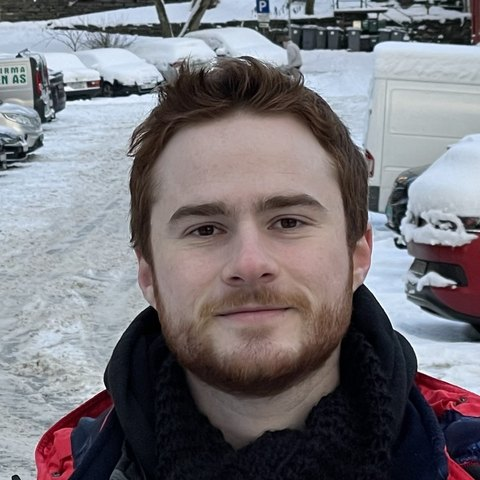
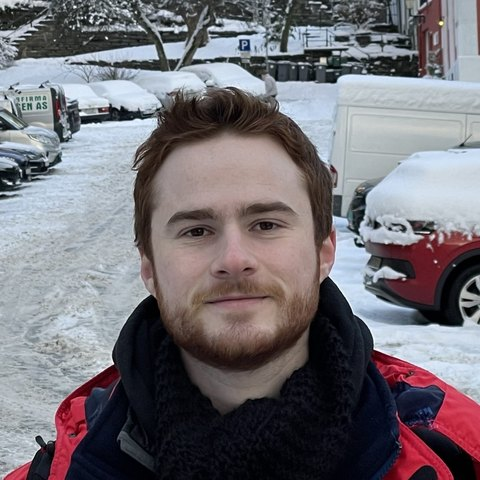
Set the invitation apart from the bio; widen photo crop

diff --git a/style.css b/style.css
@@ -161,6 +161,40 @@ header h1 {
   max-width: 40ch;
 }
 
+/* An invitation, set apart from the bio so it gets read. The cell echoes the
+   live ones in the background. */
+.bio p.invite {
+  display: flex;
+  align-items: flex-start;
+  gap: 12px;
+  margin-top: 18px;
+  color: var(--ink);
+  font-size: 0.95rem;
+  line-height: 1.6;
+  text-wrap: balance;
+}
+
+.invite .cell {
+  flex: none;
+  width: 7px;
+  height: 7px;
+  margin-top: 0.6em;
+  border-radius: 1px;
+  background: var(--accent);
+  box-shadow: 0 0 8px rgba(52, 211, 153, 0.5);
+}
+
+@media (prefers-reduced-motion: no-preference) {
+  .invite .cell {
+    animation: pulse 2.8s ease-in-out infinite;
+  }
+}
+
+@keyframes pulse {
+  0%, 100% { opacity: 1; }
+  50% { opacity: 0.3; }
+}
+
 /* ===== Section Headings ===== */
 
 h2 {
@@ -377,6 +411,11 @@ h2::after {
   .bio p {
     font-size: 0.92rem;
     line-height: 1.65;
+  }
+
+  .bio p.invite {
+    margin-top: 14px;
+    font-size: 0.9rem;
   }
 
   .connect {

diff --git a/index.html b/index.html
@@ -26,7 +26,8 @@
       </header>
 
       <section class="bio">
-        <p>I like solving hard problems, biohacking, and waxing poetic about the nature of reality. Check out some of my projects, or click around on the background and see what we can build together.</p>
+        <p>I like solving hard problems, biohacking, and waxing poetic about the nature of reality.</p>
+        <p class="invite"><span class="cell" aria-hidden="true"></span>Check out some of my projects, or click around on the background and see what we can build together.</p>
       </section>
 
       <section class="connect">
